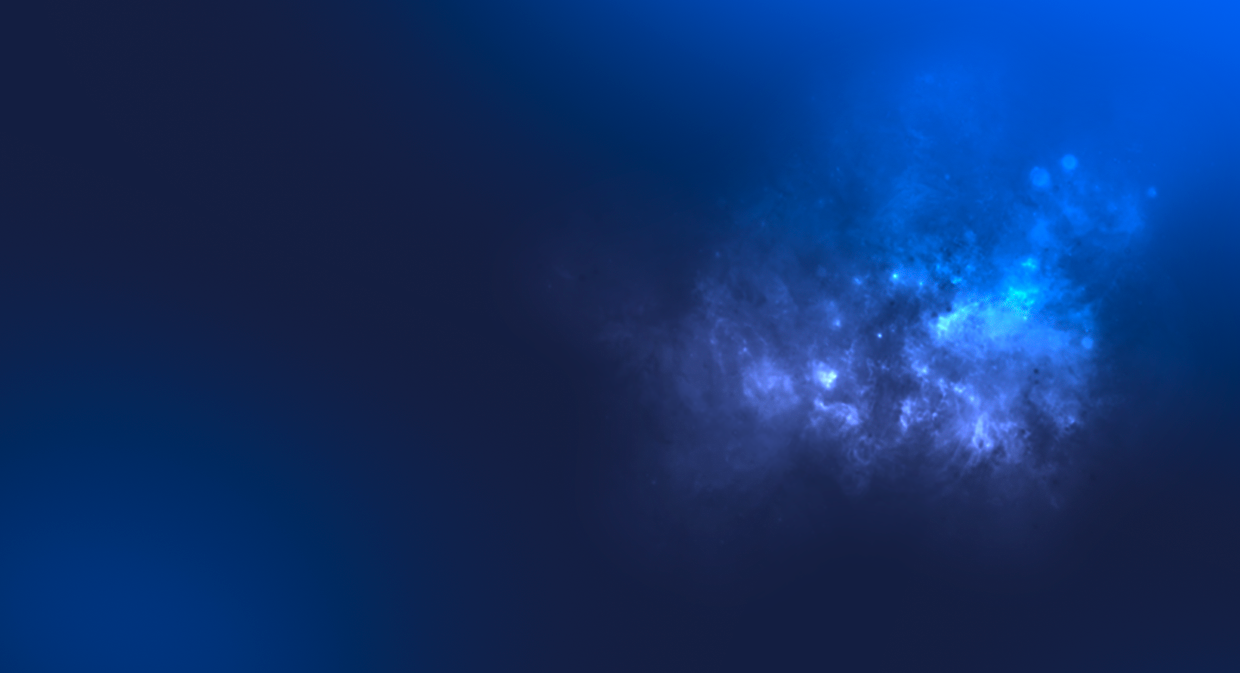
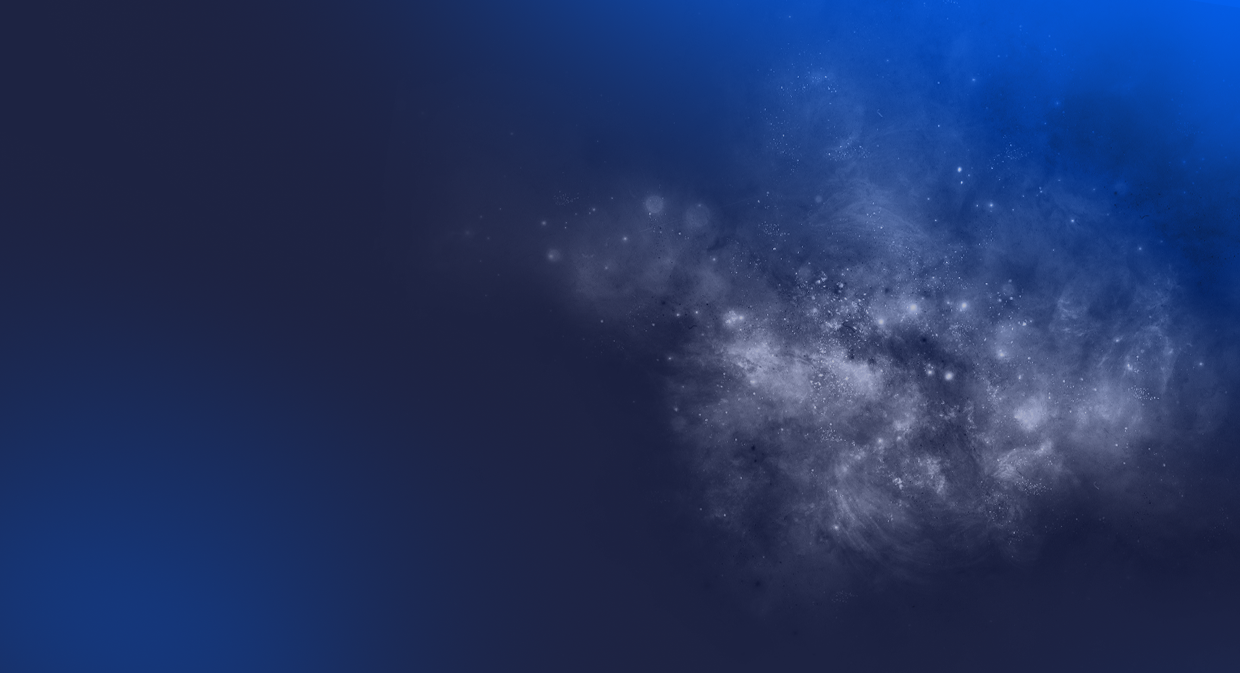
feat: not found ui

diff --git a/v2/src/views/ViewNotFound.vue b/v2/src/views/ViewNotFound.vue
@@ -1,30 +1,34 @@
 <template>
-    <v-img :src="require('@/assets/background-nebula.png')" contain />
+    <div class="not-found">
+        <v-container class="core-container py-4 py-md-12">
+            <div class="d-flex flex-column align-center justify-center text-center my-5 my-md-16">
+                <v-img :src="require('@/assets/vm-bot/vm-bot-error.png')" alt="" height="380" width="380" contain />
+                <p class="text-white mt-3 mb-5 text-h3">Oh No! This page is not found.</p>
+                <app-btn text="Go Back Home" @click="goToHome"></app-btn>
+            </div>
+        </v-container>
+    </div>
 </template>
 
 <script setup lang="ts">
-import { useRoute } from 'vue-router'
-import { computed } from 'vue'
+import { useRouter } from 'vue-router'
 import AppBtn from '@core/components/AppBtn.vue'
+import { ROUTE_NAME } from '@core/router/routesNames'
 
-import { useAppViewGrid } from '@core/composables/AppViewGrid/AppViewGrid.composable'
-
-const { columnPadding, rowMargin } = useAppViewGrid()
-
-const routeName = computed(() => {
-    return useRoute().name
-})
-
-const props = defineProps({
-    addressRef: {
-        type: String,
-        default: ''
-    }
-})
+const router = useRouter()
+const goToHome = async (): Promise<void> => {
+    await router.push({
+        name: ROUTE_NAME.HOME.NAME
+    })
+}
 </script>
 <style lang="scss" scoped>
 .not-found {
     background: url('/src/assets/background-nebula.png');
+    background-size: cover;
+    background-attachment: fixed;
+    background-position: right 35% center;
     min-height: 600px;
+    width: 100;
 }
 </style>
